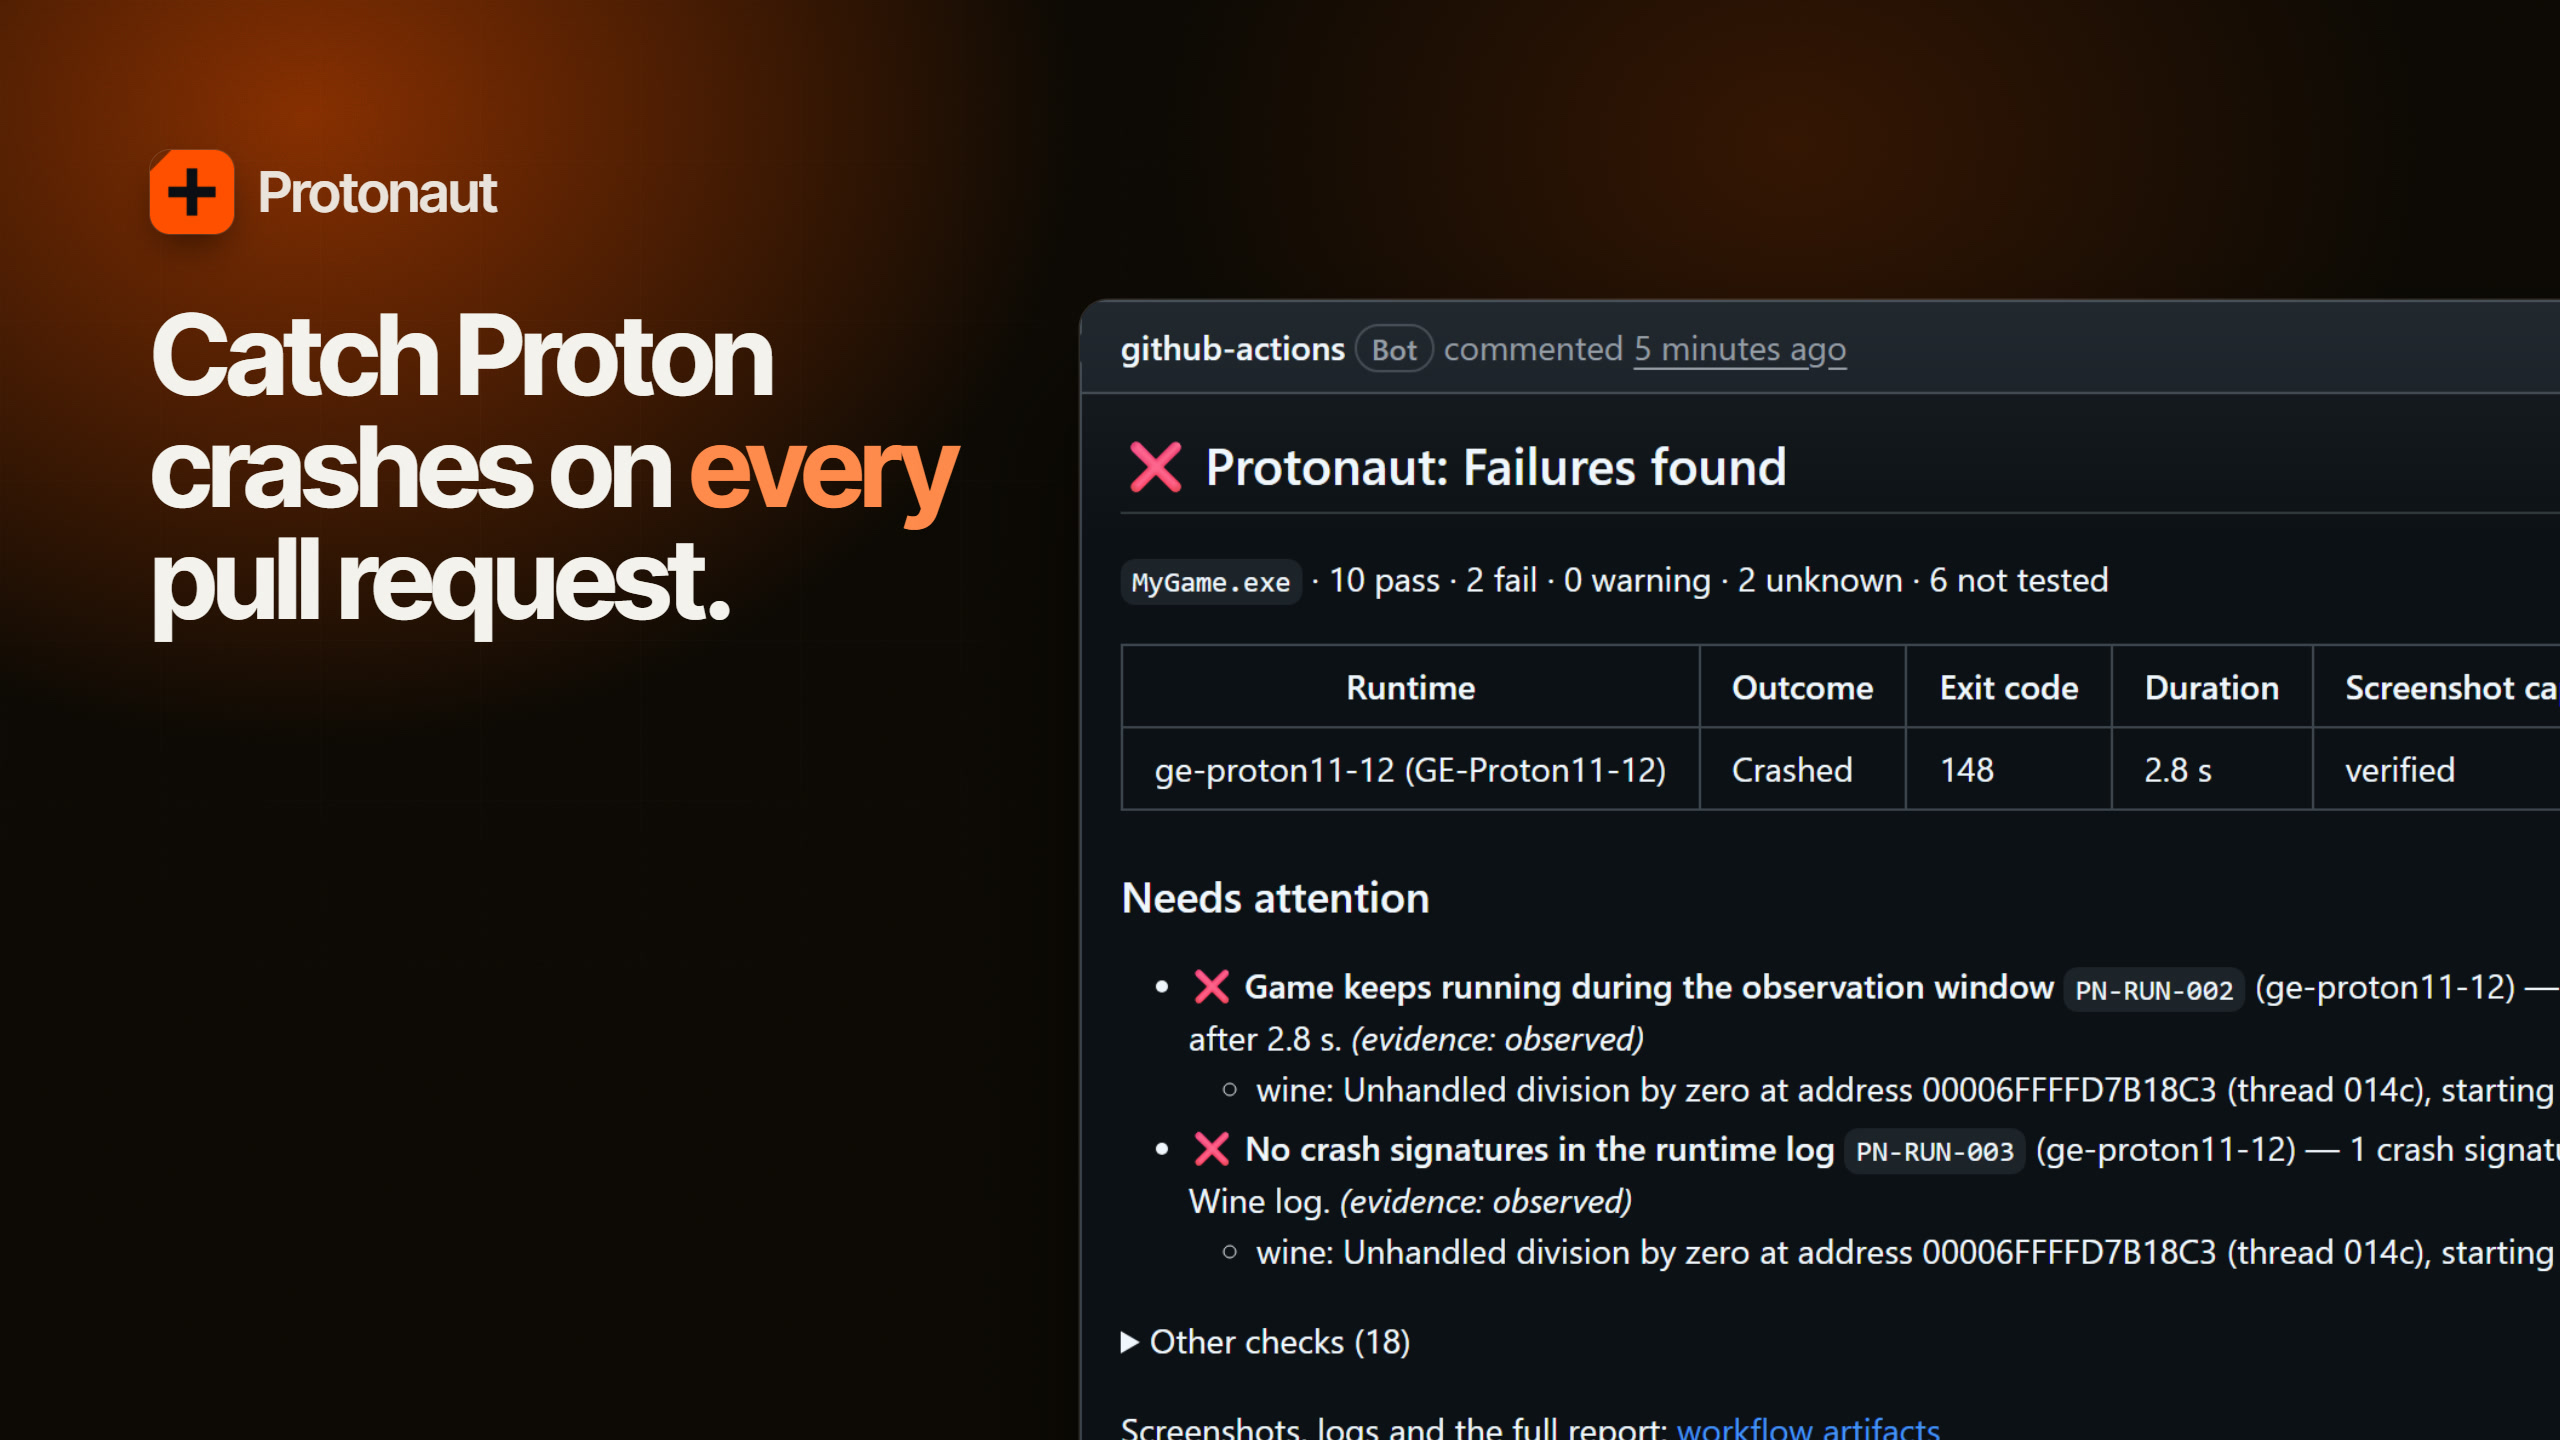
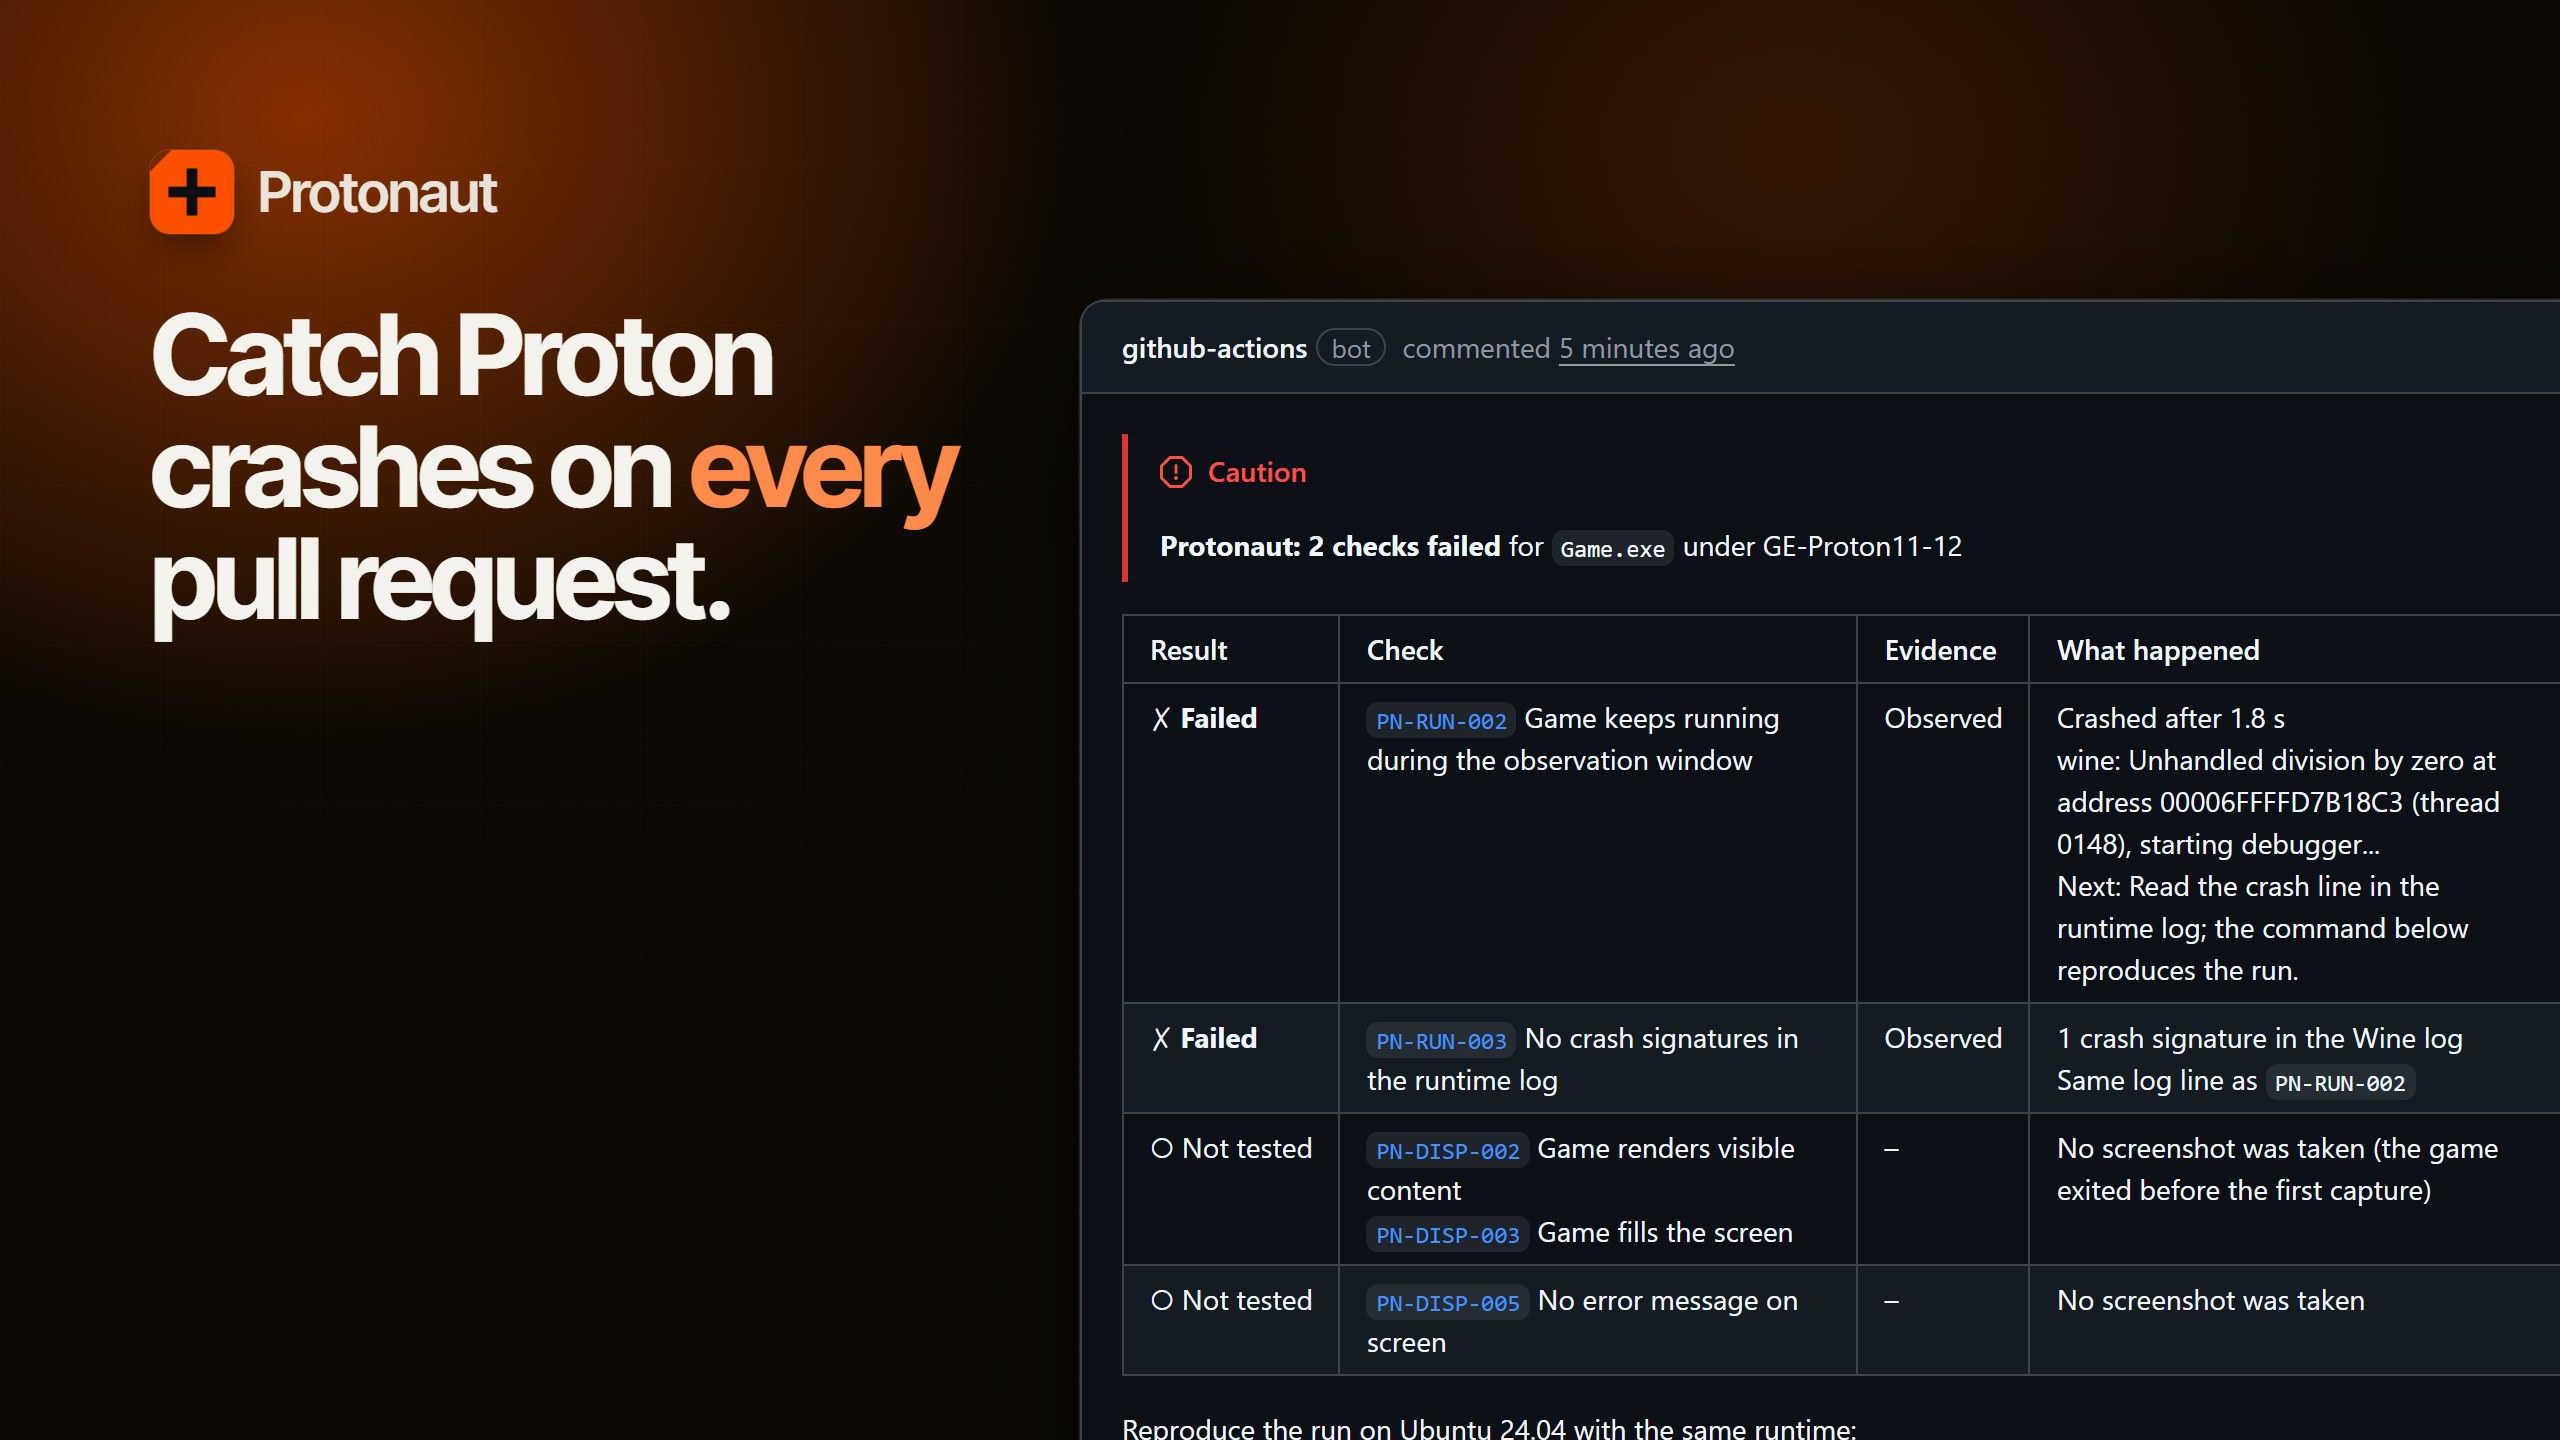
Refresh the Protonaut tile

Changed region(s): [[0.4375, 0.3125, 1.0, 1.0], [0.4375, 0.2188, 0.7188, 0.2812]]

diff --git a/README.md b/README.md
@@ -32,9 +32,9 @@ Hi, stranger! I'm Mahan. I spend most of my time building tools for developers a
       <p><sub><a href="https://github.com/Mahan-Imanian/netcheck/releases/latest"><b>Download</b></a> · Windows 11 · Rust, Tauri, React, TypeScript · MIT</sub></p>
     </td>
     <td width="50%" valign="top">
-      <a href="https://github.com/Mahan-Imanian/protonaut"><img alt="Protonaut: Catch Proton crashes on every pull request. Beside it, the comment it posts on a PR: Failures found, crashed with exit code 148 after 2.8 s, and the Wine crash signature." src="assets/tile-protonaut.jpg" width="100%"></a>
+      <a href="https://github.com/Mahan-Imanian/protonaut"><img alt="Protonaut: Catch Proton crashes on every pull request. Beside it, the comment it posts on a PR: 2 checks failed, crashed after 1.8 s with the Wine crash line, and the checks it could not test." src="assets/tile-protonaut.jpg" width="100%"></a>
       <h3><a href="https://github.com/Mahan-Imanian/protonaut">Protonaut</a></h3>
-      <p>Runs a Windows game build under GE-Proton in CI. If a change makes the game crash or render black, the pull request goes red with screenshots and logs attached, no Steam Deck required. Independent project, not affiliated with Valve.
+      <p>Runs a Windows game build under GE-Proton in CI. If a change makes the game crash or render black, the pull request goes red with the crash line, screenshots and a command to reproduce the run, no Steam Deck required. Independent project, not affiliated with Valve.
 </p>
       <p><sub><a href="https://mahan-imanian.github.io/protonaut/"><b>Website</b></a> · <a href="https://github.com/Mahan-Imanian/protonaut-demo/pull/1">Live demo PR</a> · Rust · Apache-2.0</sub></p>
     </td>
